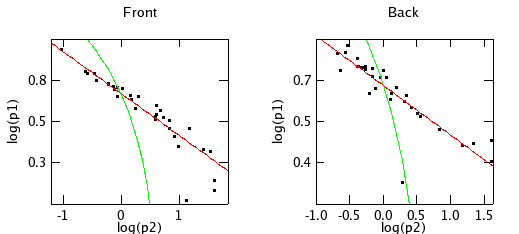
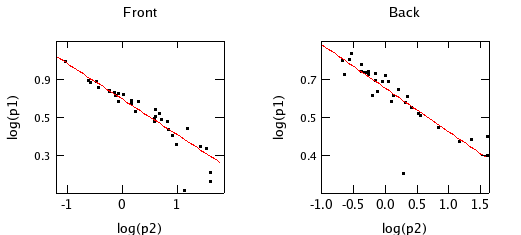
add Jean's explanation for p2-p1 correlation

diff --git a/irfs/dc1aResponse/src/psf_fit.h b/irfs/dc1aResponse/src/psf_fit.h
@@ -29,13 +29,20 @@
 
    @image html zeroth_order_scaling.png Overall energy scaling of angular deviations
 
-   Fit parameters:
+   and fit parameters:
 @verbatim
                   Front          Back
    theta0         1.947          3.457
    Eb             4.93e4         3.52e4
    gamma          0.786          0.798
 @endverbatim
+
+   Note that we are fitting profile distributions of \f${\tt
+   LogBestDirErr} \equiv \log_{10}({\tt BestDirErr})\f$. We would obtain
+   a somewhat different scaling if we were fitting profile
+   distributions of <tt>BestDirErr</tt> directly.  This has important
+   consequences for the relationship of the PSF shape fit parameters
+   to each other as we discuss below in @ref psf_fits.
 
    By cutting on \c McZDir, we find that the angular deviation scale,
    \c theta0, varies with incident photon inclination.  The parameters
@@ -93,10 +100,7 @@
    \f]
 
    where \f$u = 0.5 ({\tt BestDirErr}/\sigma)^2\f$, and his
-   \f$\sigma\f$ is equivalent to our \f$\tilde\theta\f$.  We include
-   an extra parameter, \f$p_2\f$, for which we will derive a
-   functional dependence on \f$p_1\f$ that differs from that found in
-   Toby's expression.
+   \f$\sigma\f$ is roughly equivalent to \f$p_2\f$. 
 
    Since the distributions of scaled deviations are nearly lognormal,
    we make histograms of \c log10(x) so that the function that we fit
@@ -137,8 +141,35 @@
    D              2.117          2.900
 @endverbatim
 
-   The green curves are \f$p_2 = 1/2 p_1\f$, as inferred from Toby'
-   expression.
+   Jean Ballet has noted that the application of the energy and
+   inclination scaling factor imposes a definite relationship between
+   the fitted values of \f$p_1\f$ and \f$p_2\f$.  The condition is
+   given by evaluating the first moment of \f$\log x\f$:
+
+   \f[
+   \langle \log x \rangle = \int \log x\, \frac{dN}{dx} dx = 0,
+   \f]
+
+   where the zero-condition arises because of our fits of the scale factor
+   to profile distributions of <tt>logBestDirErr</tt>.  This leads to the
+   relation
+
+   \f[
+   \langle \log x \rangle = (\psi(1) - \psi(p_1 - 1) - \log p_2)/2
+   \f]
+
+   where \f$\psi\f$ is Euler's psi-function and \f$\psi(1) =
+   -0.57721\f$, the negative of Euler's constant.
+
+   The zero-condition gives \f$ \log p_2 = \psi(1) - \psi(p_1 -
+   1)\f$.  Jean has made a plot of this function (solid curve), comparing
+   it to the empirical relations derived above for the front (dashed) and
+   back (dotted):
+
+   @image html p1vsp2.png log(p1) vs log(p2) given the angular deviation scaling constraint
+
+   This explains the empirical correlation we have found between 
+   \f$p_1\f$ and \f$p_2\f$.
 
    Finally, we plot \f$p_1\f$ vs energy for the 3-parameter (black points)
    and 2-parameter (red) fits:
